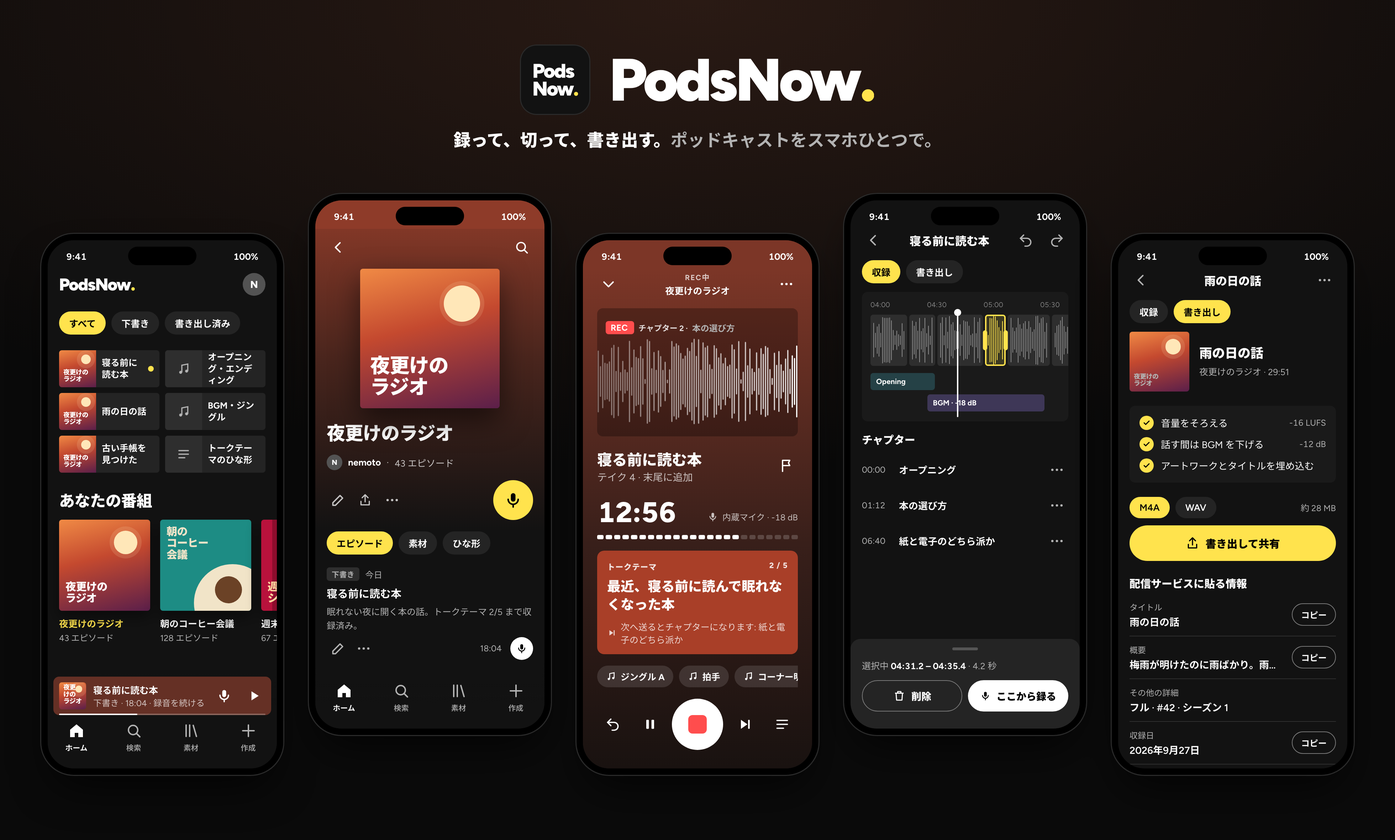
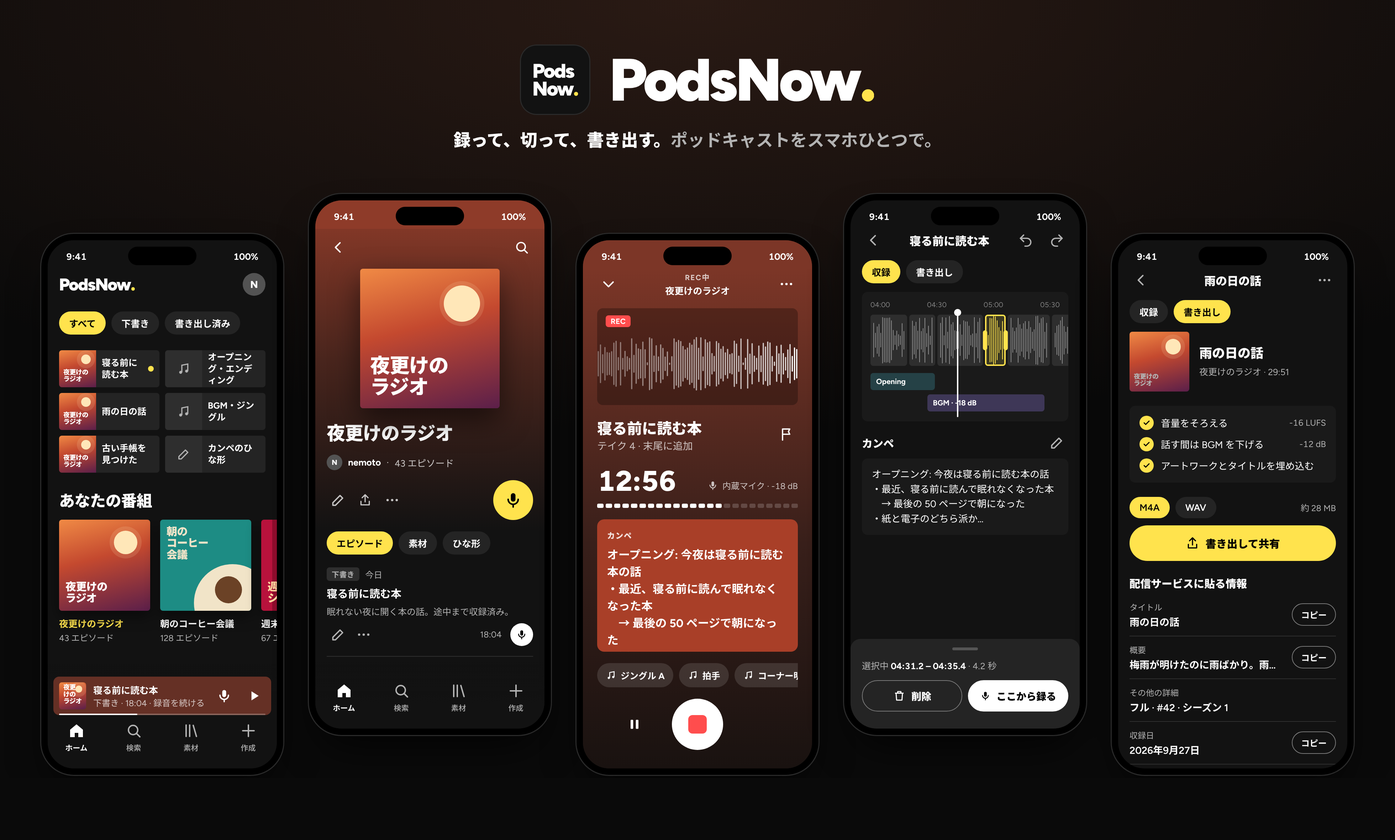
docs: トークテーマと台本・チャプターをやめ、1 枚のカンペにする（#180）
- REQUIREMENTS / PRODUCT: 用語・FR-OUT・FR-REC-6・FR-SHOW-4 をカンペに置き換え、
  FR-EDIT-10 と FR-META-3（{{topics}}）を取り下げ
- DATA_MODEL: outline_items / show_topic_template を episodes.notes /
  shows.notes_template に置き換える移行 0010 の方針（データは移さない）
- DESIGN_SYSTEM: カンペのカード、録音中の操作バーを 2 つに（取り消す・次へ・一覧を外す）、
  編集画面のカンペ欄、トークンの名前（notesCard / notes）
- 見本 ds4: 収録・編集・ホームをカンペに直し、公開版の Artifact も同じ内容に更新
- README の画像を見本から撮り直し、実機の確認項目を更新

Claude-Session: https://claude.ai/code/session_01T3UNHa3BCTSbdvczUz2iPG

diff --git a/docs/design-refresh/ds4/mock.html b/docs/design-refresh/ds4/mock.html
@@ -24,7 +24,7 @@
   --np-a: #6e2f2a;
   --np-b: #3a1d1f;
   --np-c: #1a1212;
-  --topic: #b5483b;
+  --cue: #b5483b;
   --mini: #5a2a3c;
   --hero-a: #3b2350;
   --font: "Figtree", "Noto Sans JP", system-ui, sans-serif;
@@ -184,9 +184,9 @@ figcaption span { color: var(--sub); font-size: 13.5px; line-height: 1.7; }
 .np .head small { font-size: 10.5px; letter-spacing: .1em; color: rgba(255,255,255,.75); font-weight: 700; }
 .np .head b { font-size: 13px; font-weight: 700; }
 .np .ib { color: #fff; }
-.wavebox { position: relative; border-radius: 8px; background: rgba(0,0,0,.28); height: 200px; overflow: hidden; }
+.wavebox { position: relative; border-radius: 8px; background: rgba(0,0,0,.28); height: 136px; overflow: hidden; }
 .wavebox canvas { width: 100%; height: 100%; display: block; }
-.wavebox .chap { position: absolute; left: 12px; top: 10px; font-size: 11px; font-weight: 700; color: rgba(255,255,255,.85); display: flex; gap: 6px; align-items: center; white-space: nowrap; }
+.wavebox .tag { position: absolute; left: 12px; top: 10px; display: flex; }
 .np .title { display: flex; align-items: center; gap: 10px; }
 .np .title div { flex: 1; min-width: 0; }
 .np .title b { display: block; font-size: 21px; font-weight: 800; white-space: nowrap; overflow: hidden; text-overflow: ellipsis; }
@@ -198,15 +198,15 @@ figcaption span { color: var(--sub); font-size: 13.5px; line-height: 1.7; }
 .meter i { border-radius: 2px; background: rgba(255,255,255,.18); }
 .meter i.on { background: #fff; }
 .meter i.on.hot { background: #ffb340; }
-.topic { background: var(--topic); border-radius: 10px; padding: 14px 14px 12px; display: grid; gap: 8px; }
-.topic small { font-size: 11px; font-weight: 800; letter-spacing: .06em; color: rgba(255,255,255,.85); display: flex; justify-content: space-between; }
-.topic b { font-size: 19px; font-weight: 800; line-height: 1.35; }
-.topic .next { font-size: 12.5px; color: rgba(255,255,255,.8); display: flex; align-items: center; gap: 6px; }
+.cue { background: var(--cue); border-radius: 10px; padding: 14px 14px 0; display: flex; flex-direction: column; gap: 8px; flex: 1; min-height: 96px; }
+.cue small { flex: none; font-size: 11px; font-weight: 800; letter-spacing: .06em; color: rgba(255,255,255,.85); }
+.cue p { flex: 1; min-height: 0; margin: 0; padding-bottom: 14px; overflow-y: auto; white-space: pre-wrap; font-size: 16px; font-weight: 700; line-height: 1.5; scrollbar-width: none; }
 .pads { display: flex; gap: 8px; overflow-x: auto; scrollbar-width: none; }
 .pads button { flex: none; padding: 8px 12px; border-radius: var(--r-pill); background: rgba(255,255,255,.12); font-size: 12.5px; font-weight: 700; display: flex; gap: 6px; align-items: center; }
 .pads button:hover { background: rgba(255,255,255,.2); }
 .pads button.hit { background: #fff; color: #000; }
-.transport { display: flex; align-items: center; justify-content: space-between; margin-top: auto; }
+.transport { display: grid; grid-template-columns: 1fr auto 1fr; align-items: center; margin-top: auto; }
+.transport .ib { justify-self: center; }
 .recbtn { width: 72px; height: 72px; border-radius: 50%; background: #fff; display: grid; place-items: center; transition: transform .12s; }
 .recbtn:active { transform: scale(.95); }
 .recbtn i { width: 26px; height: 26px; border-radius: 6px; background: var(--rec); display: block; transition: border-radius .2s, width .2s, height .2s; }
@@ -234,11 +234,11 @@ figcaption span { color: var(--sub); font-size: 13.5px; line-height: 1.7; }
 .layer { height: 24px; border-radius: 4px; font-size: 10.5px; font-weight: 700; display: flex; align-items: center; padding: 0 8px; background: #4a4a4a; color: #fff; }
 .layer.insert { background: #254146; }
 .layer.music { background: #3e3757; }
-.chapters { margin: 14px 16px 0; display: grid; gap: 2px; }
-.chapters h4 { margin: 0 0 6px; font-size: 15px; font-weight: 800; }
-.chap { display: flex; align-items: center; gap: 12px; padding: 8px 0; font-size: 13.5px; }
-.chap span { color: var(--sub); font-variant-numeric: tabular-nums; font-size: 12px; width: 40px; flex: none; }
-.chap b { font-weight: 600; flex: 1; }
+.notesbox { margin: 14px 16px 0; display: grid; gap: 6px; }
+.notesbox .row { display: flex; align-items: center; justify-content: space-between; }
+.notesbox h4 { margin: 0; font-size: 15px; font-weight: 800; }
+.notesbox .card { padding: 12px 14px; border-radius: 8px; background: var(--s1); }
+.notesbox p { margin: 0; font-size: 13.5px; line-height: 1.55; white-space: pre-wrap; display: -webkit-box; -webkit-line-clamp: 4; -webkit-box-orient: vertical; overflow: hidden; }
 .sheet { flex: none; background: var(--s2); border-radius: 14px 14px 0 0; padding: 12px 16px 24px; display: grid; gap: 12px; position: relative; z-index: 2; }
 .sheet .grab { width: 36px; height: 4px; border-radius: 2px; background: #555; margin: 0 auto; }
 .sheet .info { font-size: 12.5px; color: var(--sub); font-variant-numeric: tabular-nums; }
@@ -335,7 +335,7 @@ figcaption span { color: var(--sub); font-size: 13.5px; line-height: 1.7; }
             <button><div class="art small" data-art="ep" data-ep="1"></div><span data-b="ep1short"></span></button>
             <button><div class="art small mat" data-ic="note"></div>BGM・ジングル</button>
             <button><div class="art small" data-art="ep" data-ep="2"></div><span data-b="ep2short"></span></button>
-            <button><div class="art small mat" data-ic="list"></div>トークテーマのひな形</button>
+            <button><div class="art small mat" data-ic="pen"></div>カンペのひな形</button>
           </div>
           <div style="display:grid;gap:12px">
             <h2 class="h2">あなたの番組</h2>
@@ -434,7 +434,7 @@ figcaption span { color: var(--sub); font-size: 13.5px; line-height: 1.7; }
         </div>
         <div class="wavebox">
           <canvas id="live"></canvas>
-          <div class="chap"><span class="pill rec">REC</span>チャプター 2 · <span data-b="chap"></span></div>
+          <div class="tag"><span class="pill rec">REC</span></div>
         </div>
         <div class="title">
           <div><b data-b="ep0"></b><span>テイク 4 · 末尾に追加</span></div>
@@ -444,10 +444,9 @@ figcaption span { color: var(--sub); font-size: 13.5px; line-height: 1.7; }
           <div class="clock"><b id="clock">12:48</b><span><span data-ic="mic-sm"></span>内蔵マイク · -18 dB</span></div>
           <div class="meter" id="meter"></div>
         </div>
-        <div class="topic">
-          <small><span>トークテーマ</span><span>2 / 5</span></small>
-          <b data-b="topic"></b>
-          <div class="next"><span data-ic="next-sm"></span><span>次へ送るとチャプターになります: <span data-b="next"></span></span></div>
+        <div class="cue">
+          <small>カンペ</small>
+          <p data-b="notes" tabindex="0"></p>
         </div>
         <div class="pads" id="pads">
           <button><span data-ic="note"></span>ジングル A</button>
@@ -456,15 +455,13 @@ figcaption span { color: var(--sub); font-size: 13.5px; line-height: 1.7; }
           <button><span data-ic="note"></span>笑い</button>
         </div>
         <div class="transport">
-          <button class="ib" data-ic="undo" aria-label="取り消す"></button>
           <button class="ib" data-ic="pause" id="pauseBtn" aria-label="一時停止"></button>
           <button class="recbtn" id="recBtn" aria-label="録音を止める"><i></i></button>
-          <button class="ib" data-ic="next" aria-label="次のトークテーマへ"></button>
-          <button class="ib" data-ic="list" aria-label="トークテーマ一覧"></button>
+          <span></span>
         </div>
       </div>
     </div>
-    <figcaption><b>3. 収録</b><span>背景とトークテーマのカードが番組の色になります。歌詞カードと同じで、カードはグラデーションより少し明るい同じ色相です。録音ボタンは白、録音中の印は赤で、どちらも番組によって変わりません。</span></figcaption>
+    <figcaption><b>3. 収録</b><span>背景とカンペのカードが番組の色になります。歌詞カードと同じで、カードはグラデーションより少し明るい同じ色相です。カンペは録音中は読むだけで、長いときは指でスクロールします。録音ボタンは白、録音中の印は赤で、どちらも番組によって変わりません。</span></figcaption>
   </figure>
 
   <!-- 4. Edit -->
@@ -485,11 +482,9 @@ figcaption span { color: var(--sub); font-size: 13.5px; line-height: 1.7; }
             <div class="layer music" style="width:62%;margin-left:30%">BGM · -18 dB</div>
           </div>
         </div>
-        <div class="chapters">
-          <h4>チャプター</h4>
-          <div class="chap"><span>00:00</span><b>オープニング</b><button class="ib" data-ic="more"></button></div>
-          <div class="chap"><span>01:12</span><b data-b="chap"></b><button class="ib" data-ic="more"></button></div>
-          <div class="chap"><span>06:40</span><b data-b="next"></b><button class="ib" data-ic="more"></button></div>
+        <div class="notesbox">
+          <div class="row"><h4>カンペ</h4><button class="ib" data-ic="pen" aria-label="カンペを書く"></button></div>
+          <div class="card"><p data-b="notes"></p></div>
         </div>
       </div>
       <div class="toast" id="toast" hidden><span id="toastText">4.2 秒を削除しました</span><button id="undoBtn">取り消す</button></div>
@@ -502,7 +497,7 @@ figcaption span { color: var(--sub); font-size: 13.5px; line-height: 1.7; }
         </div>
       </div>
     </div>
-    <figcaption><b>4. 編集（収録タブの中）</b><span>作業の画面は番組の色を使わず、無彩色とアクセントだけにしています。細かい波形を見る場所に色が混ざると、選択中の塊が見分けにくくなるためです。塊を押すと選択が移り、削除すると取り消しの通知が出ます。</span></figcaption>
+    <figcaption><b>4. 編集（収録タブの中）</b><span>作業の画面は番組の色を使わず、無彩色とアクセントだけにしています。細かい波形を見る場所に色が混ざると、選択中の塊が見分けにくくなるためです。塊を押すと選択が移り、削除すると取り消しの通知が出ます。カンペは鉛筆のボタンで開いて書きます。新しいエピソードには番組の「カンペのひな形」が最初から入ります。</span></figcaption>
   </figure>
 
   <!-- 5. Export -->
@@ -605,14 +600,12 @@ figcaption span { color: var(--sub); font-size: 13.5px; line-height: 1.7; }
     share: '<path d="M12 3v12M7 8l5-5 5 5M5 14v6h14v-6" stroke="currentColor" stroke-width="2" fill="none" stroke-linecap="round" stroke-linejoin="round"/>',
     undo: '<path d="M9 14 4 9l5-5" stroke="currentColor" stroke-width="2" fill="none" stroke-linecap="round" stroke-linejoin="round"/><path d="M4 9h10a6 6 0 0 1 0 12h-3" stroke="currentColor" stroke-width="2" fill="none" stroke-linecap="round"/>',
     redo: '<path d="m15 14 5-5-5-5" stroke="currentColor" stroke-width="2" fill="none" stroke-linecap="round" stroke-linejoin="round"/><path d="M20 9H10a6 6 0 0 0 0 12h3" stroke="currentColor" stroke-width="2" fill="none" stroke-linecap="round"/>',
-    next: '<path d="M6 5v14l10-7z" fill="currentColor"/><rect x="17" y="5" width="2.5" height="14" rx="1" fill="currentColor"/>',
-    list: '<path d="M4 6h16M4 12h16M4 18h10" stroke="currentColor" stroke-width="2" stroke-linecap="round"/>',
     flag: '<path d="M6 21V4M6 4h11l-2 4 2 4H6" stroke="currentColor" stroke-width="2" fill="none" stroke-linejoin="round" stroke-linecap="round"/>',
     note: '<path d="M9 18V6l10-2v12" stroke="currentColor" stroke-width="2" fill="none"/><circle cx="7" cy="18" r="2.5" fill="currentColor"/><circle cx="17" cy="16" r="2.5" fill="currentColor"/>',
     trash: '<path d="M4 7h16M9 7V4h6v3M6 7l1 13h10l1-13" stroke="currentColor" stroke-width="2" fill="none" stroke-linejoin="round"/>',
     check: '<path d="m5 12 4.5 4.5L19 7" stroke="currentColor" stroke-width="3" fill="none" stroke-linecap="round" stroke-linejoin="round"/>'
   };
-  var SIZES = { 'mic-lg': ['mic', 26], 'mic-sm': ['mic', 15], 'next-sm': ['next', 13], note: ['note', 15], check: ['check', 12], trash: ['trash', 18], share: ['share', 20] };
+  var SIZES = { 'mic-lg': ['mic', 26], 'mic-sm': ['mic', 15], note: ['note', 15], check: ['check', 12], trash: ['trash', 18], share: ['share', 20] };
   document.querySelectorAll('[data-ic]').forEach(function (el) {
     var k = el.getAttribute('data-ic'), size = 22, name = k;
     if (SIZES[k]) { name = SIZES[k][0]; size = SIZES[k][1]; }
@@ -626,28 +619,28 @@ figcaption span { color: var(--sub); font-size: 13.5px; line-height: 1.7; }
   var SHOWS = [
     { key: 'yoru', name: '夜更けのラジオ', cover: '夜更けの<br>ラジオ', count: '43 エピソード', dominant: '#c4492f',
       eps: [
-        { no: 43, t: '寝る前に読む本', d: '眠れない夜に開く本の話。トークテーマ 2/5 まで収録済み。', dur: '18:04' },
+        { no: 43, t: '寝る前に読む本', d: '眠れない夜に開く本の話。途中まで収録済み。', dur: '18:04' },
         { no: 42, t: '雨の日の話', d: '梅雨が明けたのに雨ばかり。雨の日にしかしないことを 3 つ話しました。', dur: '29:51', date: '9月27日', day: '2026年9月27日' },
         { no: 41, t: '古い手帳を見つけた', d: '引っ越しの片付けで出てきた 2014 年の手帳。当時の予定を読み上げます。', dur: '24:17', date: '9月20日' }],
-      chap: '本の選び方', topic: '最近、寝る前に読んで眠れなくなった本', next: '紙と電子のどちら派か' },
+      notes: 'オープニング: 今夜は寝る前に読む本の話\n・最近、寝る前に読んで眠れなくなった本\n　→ 最後の 50 ページで朝になった\n・紙と電子のどちら派か\n・おたより 2 通（「積読が減りません」）\nエンディング: 次回は「雨の日の話」の続き' },
     { key: 'coffee', name: '朝のコーヒー会議', cover: '朝の<br>コーヒー<br>会議', count: '128 エピソード', dominant: '#1d8c84',
       eps: [
         { no: 129, t: '浅煎りに戻れない', d: '深煎り派だった 2 人が浅煎りに転んだ経緯。いま収録中。', dur: '09:12' },
         { no: 128, t: 'ハンドドリップの道具', d: 'ケトル、ドリッパー、スケール。最初に買うならどれか。', dur: '21:40', date: '10月1日', day: '2026年10月1日' },
         { no: 127, t: '近所の喫茶店ベスト 3', d: 'リスナーのおすすめを全部回ってきました。', dur: '26:05', date: '9月24日' }],
-      chap: 'きっかけの一杯', topic: '浅煎りを初めておいしいと思った日', next: '家で淹れるときの失敗' },
+      notes: 'オープニング: 深煎り派だった 2 人の近況\n・浅煎りを初めておいしいと思った日\n・家で淹れるときの失敗\n　→ 湯の温度、挽き目\n・おすすめの豆を 1 つずつ\nエンディング: おたより募集' },
     { key: 'cinema', name: '週末シネマ部', cover: '週末<br>シネマ部', count: '67 エピソード', dominant: '#b8123c',
       eps: [
         { no: 68, t: '字幕と吹替', d: '同じ映画を字幕と吹替で 2 回観て比べた話。', dur: '14:30' },
         { no: 67, t: '秋に観たい 5 本', d: '涼しくなってきたので、夜長に向く映画を 5 本選びました。', dur: '33:12', date: '9月30日', day: '2026年9月30日' },
         { no: 66, t: '映画館の座席はどこがいい', d: '前方派と後方派で 30 分揉めました。', dur: '28:48', date: '9月23日' }],
-      chap: '吹替で観た理由', topic: '吹替のほうが良かった映画', next: '字幕の文字数の制約' },
+      notes: 'オープニング: 同じ映画を 2 回観た話\n・吹替のほうが良かった映画\n・字幕の文字数の制約\n　→ 1 秒に 4 文字\n・次に吹替で観たい 1 本\nエンディング: 来週は秋の映画' },
     { key: 'ima', name: 'いまここ雑談', cover: 'いまここ<br>雑談', count: '12 エピソード', dominant: '#1f5fd6',
       eps: [
         { no: 13, t: '散歩のルール', d: '毎朝の散歩で決めているルールを紹介。', dur: '06:51' },
         { no: 12, t: '最近買ってよかったもの', d: '今月の買い物から 3 つ。', dur: '19:22', date: '10月3日', day: '2026年10月3日' },
         { no: 11, t: '夏休みの宿題', d: '大人になってからの夏休みの宿題を考えた回。', dur: '22:10', date: '9月26日' }],
-      chap: '歩く時間', topic: '雨の日でも散歩に行くか', next: 'イヤホンをするかしないか' }
+      notes: 'オープニング: 毎朝の散歩のルール\n・雨の日でも散歩に行くか\n・イヤホンをするかしないか\n・歩く時間と道の決め方\nエンディング: 皆さんのルールも募集' }
   ];
 
   /* ---------- color math ---------- */
@@ -693,7 +686,7 @@ figcaption span { color: var(--sub); font-size: 13.5px; line-height: 1.7; }
       npA: tone(h, s * .85, .32, 4.5, .72),
       npB: tone(h, s * .6, .16, 7),
       npC: tone(h, s * .35, .08, 10),
-      topic: tone(h, s, .44, 4.5, .8),
+      cue: tone(h, s, .44, 4.5, .8),
       mini: tone(h, s * .75, .27, 4.5, .72),
       hero: tone(h, s * .6, .26, 4.5)
     };
@@ -706,7 +699,7 @@ figcaption span { color: var(--sub); font-size: 13.5px; line-height: 1.7; }
     root.style.setProperty('--np-a', toHex(d.npA));
     root.style.setProperty('--np-b', toHex(d.npB));
     root.style.setProperty('--np-c', toHex(d.npC));
-    root.style.setProperty('--topic', toHex(d.topic));
+    root.style.setProperty('--cue', toHex(d.cue));
     root.style.setProperty('--mini', toHex(d.mini));
     root.style.setProperty('--hero-a', toHex(d.hero));
   }
@@ -716,7 +709,7 @@ figcaption span { color: var(--sub); font-size: 13.5px; line-height: 1.7; }
   function applyShow(i) {
     cur = i; var s = SHOWS[i];
     setVars(derive(s.dominant));
-    var b = { name: s.name, count: s.count, chap: s.chap, topic: s.topic, next: s.next };
+    var b = { name: s.name, count: s.count, notes: s.notes };
     s.eps.forEach(function (e, k) {
       // 一覧・見出し・ミニプレーヤーには話数を出さず題だけ（Issue #211）
       b['ep' + k] = e.t;
@@ -763,7 +756,7 @@ figcaption span { color: var(--sub); font-size: 13.5px; line-height: 1.7; }
       var card = document.createElement('div');
       card.className = 'dcard';
       card.innerHTML = '<div class="top"><div class="art art-' + s.key + '"><span></span></div><div><b>' + s.name + '</b><small><em style="background:' + s.dominant + '"></em>代表色 ' + s.dominant.toUpperCase() + '</small></div></div>' +
-        '<div class="strip">' + cell('番組の上部', d.header) + cell('収録画面', d.npA) + cell('トークテーマ', d.topic) + '</div>';
+        '<div class="strip">' + cell('番組の上部', d.header) + cell('収録画面', d.npA) + cell('カンペ', d.cue) + '</div>';
       grid.appendChild(card);
     });
   }

diff --git a/PRODUCT.md b/PRODUCT.md
@@ -12,7 +12,7 @@
 
 | 課題 | PodsNow が提供する解決 |
 |---|---|
-| Opening / Ending / BGM / ジングルを毎回手作業で配置する定型作業が面倒 | Show（番組）に素材・既定構成・トークテーマのひな形を登録しておき、新規エピソード作成時に自動で入る。ジングルは収録中にワンタップで挿入イベントを記録 |
+| Opening / Ending / BGM / ジングルを毎回手作業で配置する定型作業が面倒 | Show（番組）に素材・既定構成・カンペのひな形を登録しておき、新規エピソード作成時に自動で入る。ジングルは収録中にワンタップで挿入イベントを記録 |
 | 言い間違い・無音のカットが面倒 | 噛んだら止めて、無音で区切られた塊をタップして削除し、空いた位置からそのまま録り直す。録音と編集は同じ画面。無音は自動検出して一括カット |
 | 配信サービス（Spotify for Creators、stand.fm 等）の入力画面へ、タイトル・概要などを毎回手入力・貼り付けするのが面倒 | 概要欄のベーステンプレートを毎回適用し、都度編集。書き出し完了画面（Distribution Pack）から各項目を個別コピー |
 | 配信サービスの API は有料化リスクがあり依存したくない | 他社の API 連携は前提にしない。配信は PodsNow 自身の配信基盤から行う（Issue #107。ストア公開版 1.0.0 で作る。§7）。他社サービスを使う人のために、配信画面へコピペ／アップロードする手順（Distribution Pack）も残す |
@@ -31,7 +31,7 @@
 
 | シーン | 特徴 | 設計への影響 |
 |---|---|---|
-| 一人語り（自宅・静かな場所） | 内蔵マイクまたは有線外部マイク。台本ではなく「トークテーマ」を見ながら話す | 収録画面にトークテーマ表示。マイク入力の選択・表示 |
+| 一人語り（自宅・静かな場所） | 内蔵マイクまたは有線外部マイク。手元のカンペ（話す内容のメモ）を見ながら話す | 収録画面にカンペを表示。マイク入力の選択・表示 |
 | 対面での対談（1 台の端末で複数人） | 内蔵マイク、またはミキサー／オーディオインターフェース経由 | ステレオ入力オプション、入力ソース選択、レベルメーター |
 | 外出先・移動中 | 環境ノイズあり。画面ロック・他アプリ切替が頻繁 | バックグラウンド録音必須。ノイズ除去は MVP 外（後続） |
 | 収録後の編集 | 素材 20〜45 分 → 編集後 10〜30 分。言い間違いカット、無音詰め、素材挿入 | 長尺（60 分）に耐える波形表示と非破壊編集 |
@@ -41,12 +41,11 @@
 
 ### 5.1 収録開始から終了まで 【事実】
 
-1. ホーム →「＋」→ 新規エピソード（番組の既定構成とトークテーマのひな形を自動適用）→ 収録タブへ。**ホームから 2 タップで録音開始**。
+1. ホーム →「＋」→ 新規エピソード（番組の既定構成とカンペのひな形を自動適用）→ 収録タブへ。**ホームから 2 タップで録音開始**。
 2. 録音ボタンは下部に常設。再生位置から録る（途中なら差し込み、末尾なら足す）。録音中は次の操作ができる:
    - 一時停止 / 再開（同一テイク内）
    - ジングル / SE のワンタップ挿入（タイムラインへ挿入イベントを記録。書き出し時にミックス）
-   - トークテーマ / 台本の表示と、次の項目への送り（送った位置がチャプターになる）
-   - トークテーマの追加・編集（録音中でも）
+   - カンペを読む（録音中は読むだけ。長い文章は指でスクロール。カンペは録音の前後に編集画面から開いて書く）
 3. 画面ロック中・他アプリ表示中も録音は継続する（必須）。
 4. 停止するとテイクが確定し、声のタイムラインに追加される（取り消せる）。再生位置は今録った部分の直後に置かれる。
 5. 電話・他アプリの割り込み、クラッシュ、ストレージ不足が起きても、**それまでの録音は失われない**。
@@ -56,7 +55,7 @@
 - タイムライン編集（声 1 本 + 素材レイヤー）
   - 範囲を選んで削除（無音で区切られた塊をタップ → ハンドルで広げる → 削除）
   - 無音の自動検出と一括カット
-  - 取り消せる編集（カット・素材を外す・無音を詰める）は確認を出さず、直後に「取り消す」を出す。確認は、取り消しの効きにくい削除（エピソード・音声・素材・トークテーマなど）にだけ出す（FR-UI-2、Issue #172）
+  - 取り消せる編集（カット・素材を外す・無音を詰める）は確認を出さず、直後に「取り消す」を出す。確認は、取り消しの効きにくい削除（エピソード・音声・素材など）にだけ出す（FR-UI-2、Issue #172）
   - 位置を選んで録る（差し込み）。言い間違いは塊の削除 → そこから録る
   - 素材（Opening / Ending / ジングル / SE / BGM）の後挿入、位置調整、音量調整
   - Undo / Redo（画面上部に常設。録音の追加も取り消せる。履歴は画面を開いている間だけ）
@@ -72,7 +71,7 @@
 3. **工程はひとつの Episode の中にある**。Show → Episode → 工程 の 3 段しか覚えさせない。工程は別画面ではなく、1 エピソード 1 画面の上の **収録 / 書き出し** の 2 タブ（`docs/ux-restructure.md` §3 の 3 タブを、Issue #122 で録音と編集をまとめて 2 つにした）。
 4. **定型作業はテンプレート化**。Show に一度登録すれば、毎回の作業から消える。
 5. **JS で足りるものは JS、足りないものはネイティブ**。音声処理の境界は AUDIO_DESIGN.md で明示する。
-6. **UI に独自の言葉を作らない**。画面に出すのは一般語だけ（録音 / 編集 / 書き出し / 共有 / 素材 / トークテーマ / 台本 / チャプター。録音している状態の表示は録音機器で広く使われる「REC」。Issue #235）。固有の言い回しは認知負荷になり、理解のハードルを上げる（NFR-9）。
+6. **UI に独自の言葉を作らない**。画面に出すのは一般語だけ（録音 / 編集 / 書き出し / 共有 / 素材 / カンペ。録音している状態の表示は録音機器で広く使われる「REC」。Issue #235）。固有の言い回しは認知負荷になり、理解のハードルを上げる（NFR-9）。
 7. **将来の拡張（AI、同期、配信）の道を塞がない**が、MVP には入れない。
 
 ## 7. スコープ
@@ -91,14 +90,14 @@
 ### 0.1.0（MVP）に含める 【事実】
 
 - 1 番組（Show）固定。データモデルは複数 Show 対応可能な形にする
-- 収録（バックグラウンド継続、一時停止、位置を選んだ差し込み、ジングル挿入イベント、トークテーマと台本）
-- 編集（塊の選択と範囲削除、チャプター、無音一括カット、素材挿入・位置・音量、Undo/Redo）。収録と同じタブ
+- 収録（バックグラウンド継続、一時停止、位置を選んだ差し込み、ジングル挿入イベント、カンペ）
+- 編集（塊の選択と範囲削除、無音一括カット、素材挿入・位置・音量、Undo/Redo）。収録と同じタブ
 - 音の仕上げ（ラウドネス正規化、BGM ダッキング）
 - 詳細（メタデータ、概要欄ベーステンプレート）
 - 書き出し（M4A(AAC)、WAV）、共有シート、ファイル保存、書き出し履歴
 - Distribution Pack（個別コピー）
 - Show Assets（Opening / Ending / ジングル / SE / BGM の登録・お気に入り）
-- Show の既定構成（1 種類）とトークテーマのひな形（1 種類）
+- Show の既定構成（1 種類）とカンペのひな形（1 種類）
 - 番組・エピソードの情報を Podcast RSS の規格（RSS 2.0 + iTunes + Podcast 名前空間）に合わせて持つ
 - 配信中の番組の取り込み（番組名の検索 / RSS の URL。Issue #101）。**実装済みのものをそのまま載せ、実機で検証する（#141）**。準正常系の仕上げ（#139 / #140 / #161）は 1.0.0
 - 設定（入力ソース、無音しきい値、ハプティクス、既定書き出し形式、ストレージ表示）

diff --git a/README.md b/README.md
@@ -36,8 +36,8 @@ flowchart LR
 |  |  |
 |---|---|
 | 🎙 **止まらない収録** | 画面ロック中も他のアプリを使っていても録り続けます。電話や強制終了があっても、それまでの録音は失いません。 |
-| ✂ **録る画面で、そのまま切る** | 無音で区切られた塊をタップして削除し、空いた位置からそのまま録り直し。無音の一括カット、チャプター、取り消し / やり直しも同じ画面で。 |
-| 🧩 **定型作業はひな形に** | Opening / Ending / BGM / ジングルとトークテーマを番組に登録しておけば、新しい回を作るだけで並びます。ジングルは収録中にワンタップ。 |
+| ✂ **録る画面で、そのまま切る** | 無音で区切られた塊をタップして削除し、空いた位置からそのまま録り直し。無音の一括カット、取り消し / やり直しも同じ画面で。 |
+| 🧩 **定型作業はひな形に** | Opening / Ending / BGM / ジングルとカンペのひな形を番組に登録しておけば、新しい回を作るだけで並びます。ジングルは収録中にワンタップ。 |
 | 🎚 **音の仕上げ** | ラウドネスを -16 LUFS にそろえ、話している間は BGM を自動で下げます。試聴にもすぐ反映。 |
 | 📦 **書き出しと配信準備** | M4A / WAV で書き出してアートワークとタイトルを埋め込み、タイトル・概要などを 1 項目ずつコピーして配信サービスへ貼るだけ。 |
 | 🔒 **ローカルファースト** | 収録・編集・書き出しはオフラインで完結。通信するのは、配信中の番組の情報を取り込むときだけです。 |
@@ -46,7 +46,7 @@ flowchart LR
 
 1. **録音データを失わない**（最優先）— 非圧縮 PCM・ヘッダの定期更新・復旧ジャーナル・非破壊編集
 2. **工程はひとつのエピソードの中に** — 番組 → エピソード → 「収録 / 書き出し」の 2 タブだけ
-3. **独自の言葉を作らない** — 画面に出すのは録音 / 編集 / 書き出し / 素材 / チャプターなどの一般語だけ
+3. **独自の言葉を作らない** — 画面に出すのは録音 / 編集 / 書き出し / 素材 / カンペなどの一般語だけ
 4. **色は番組から** — アプリの地は黒とグレー、色は番組のアートワークから取り、PodsNow の色は主操作の黄 1 色とロゴだけ
 
 ## ドキュメント

diff --git a/ARCHITECTURE.md b/ARCHITECTURE.md
@@ -35,7 +35,7 @@
 ├─────────────────────────────────────────────────────────┤
 │ src/domain/  ─ 純粋 TypeScript。副作用なし                 │
 │   timeline (EDL 計算・時間変換) / edit-ops (操作と逆操作)   │
-│   undo / metadata-template / silence-plan / outline      │
+│   undo / metadata-template / silence-plan / list         │
 ├─────────────────────────────────────────────────────────┤
 │ src/services/  ─ ユースケース。domain と infra をつなぐ      │
 │   RecordingSession / EpisodeService / ExportService      │

diff --git a/docs/store-listing.md b/docs/store-listing.md
@@ -95,7 +95,7 @@ podcast, recorder, voice recorder, audio editor, recording, podcasting
 日本語・英語の 2 セットを撮る（端末の言語設定を切り替えて同じ画面を撮影）。
 
 1. Home（番組カードとエピソード一覧）
-2. 収録タブ（録音中、レベルメーターとトークテーマ）
+2. 収録タブ（録音中、レベルメーターとカンペ）
 3. 収録タブ（待機中、波形と範囲選択）
 4. 書き出しタブ（音の仕上げと形式）
 5. 配信の準備
